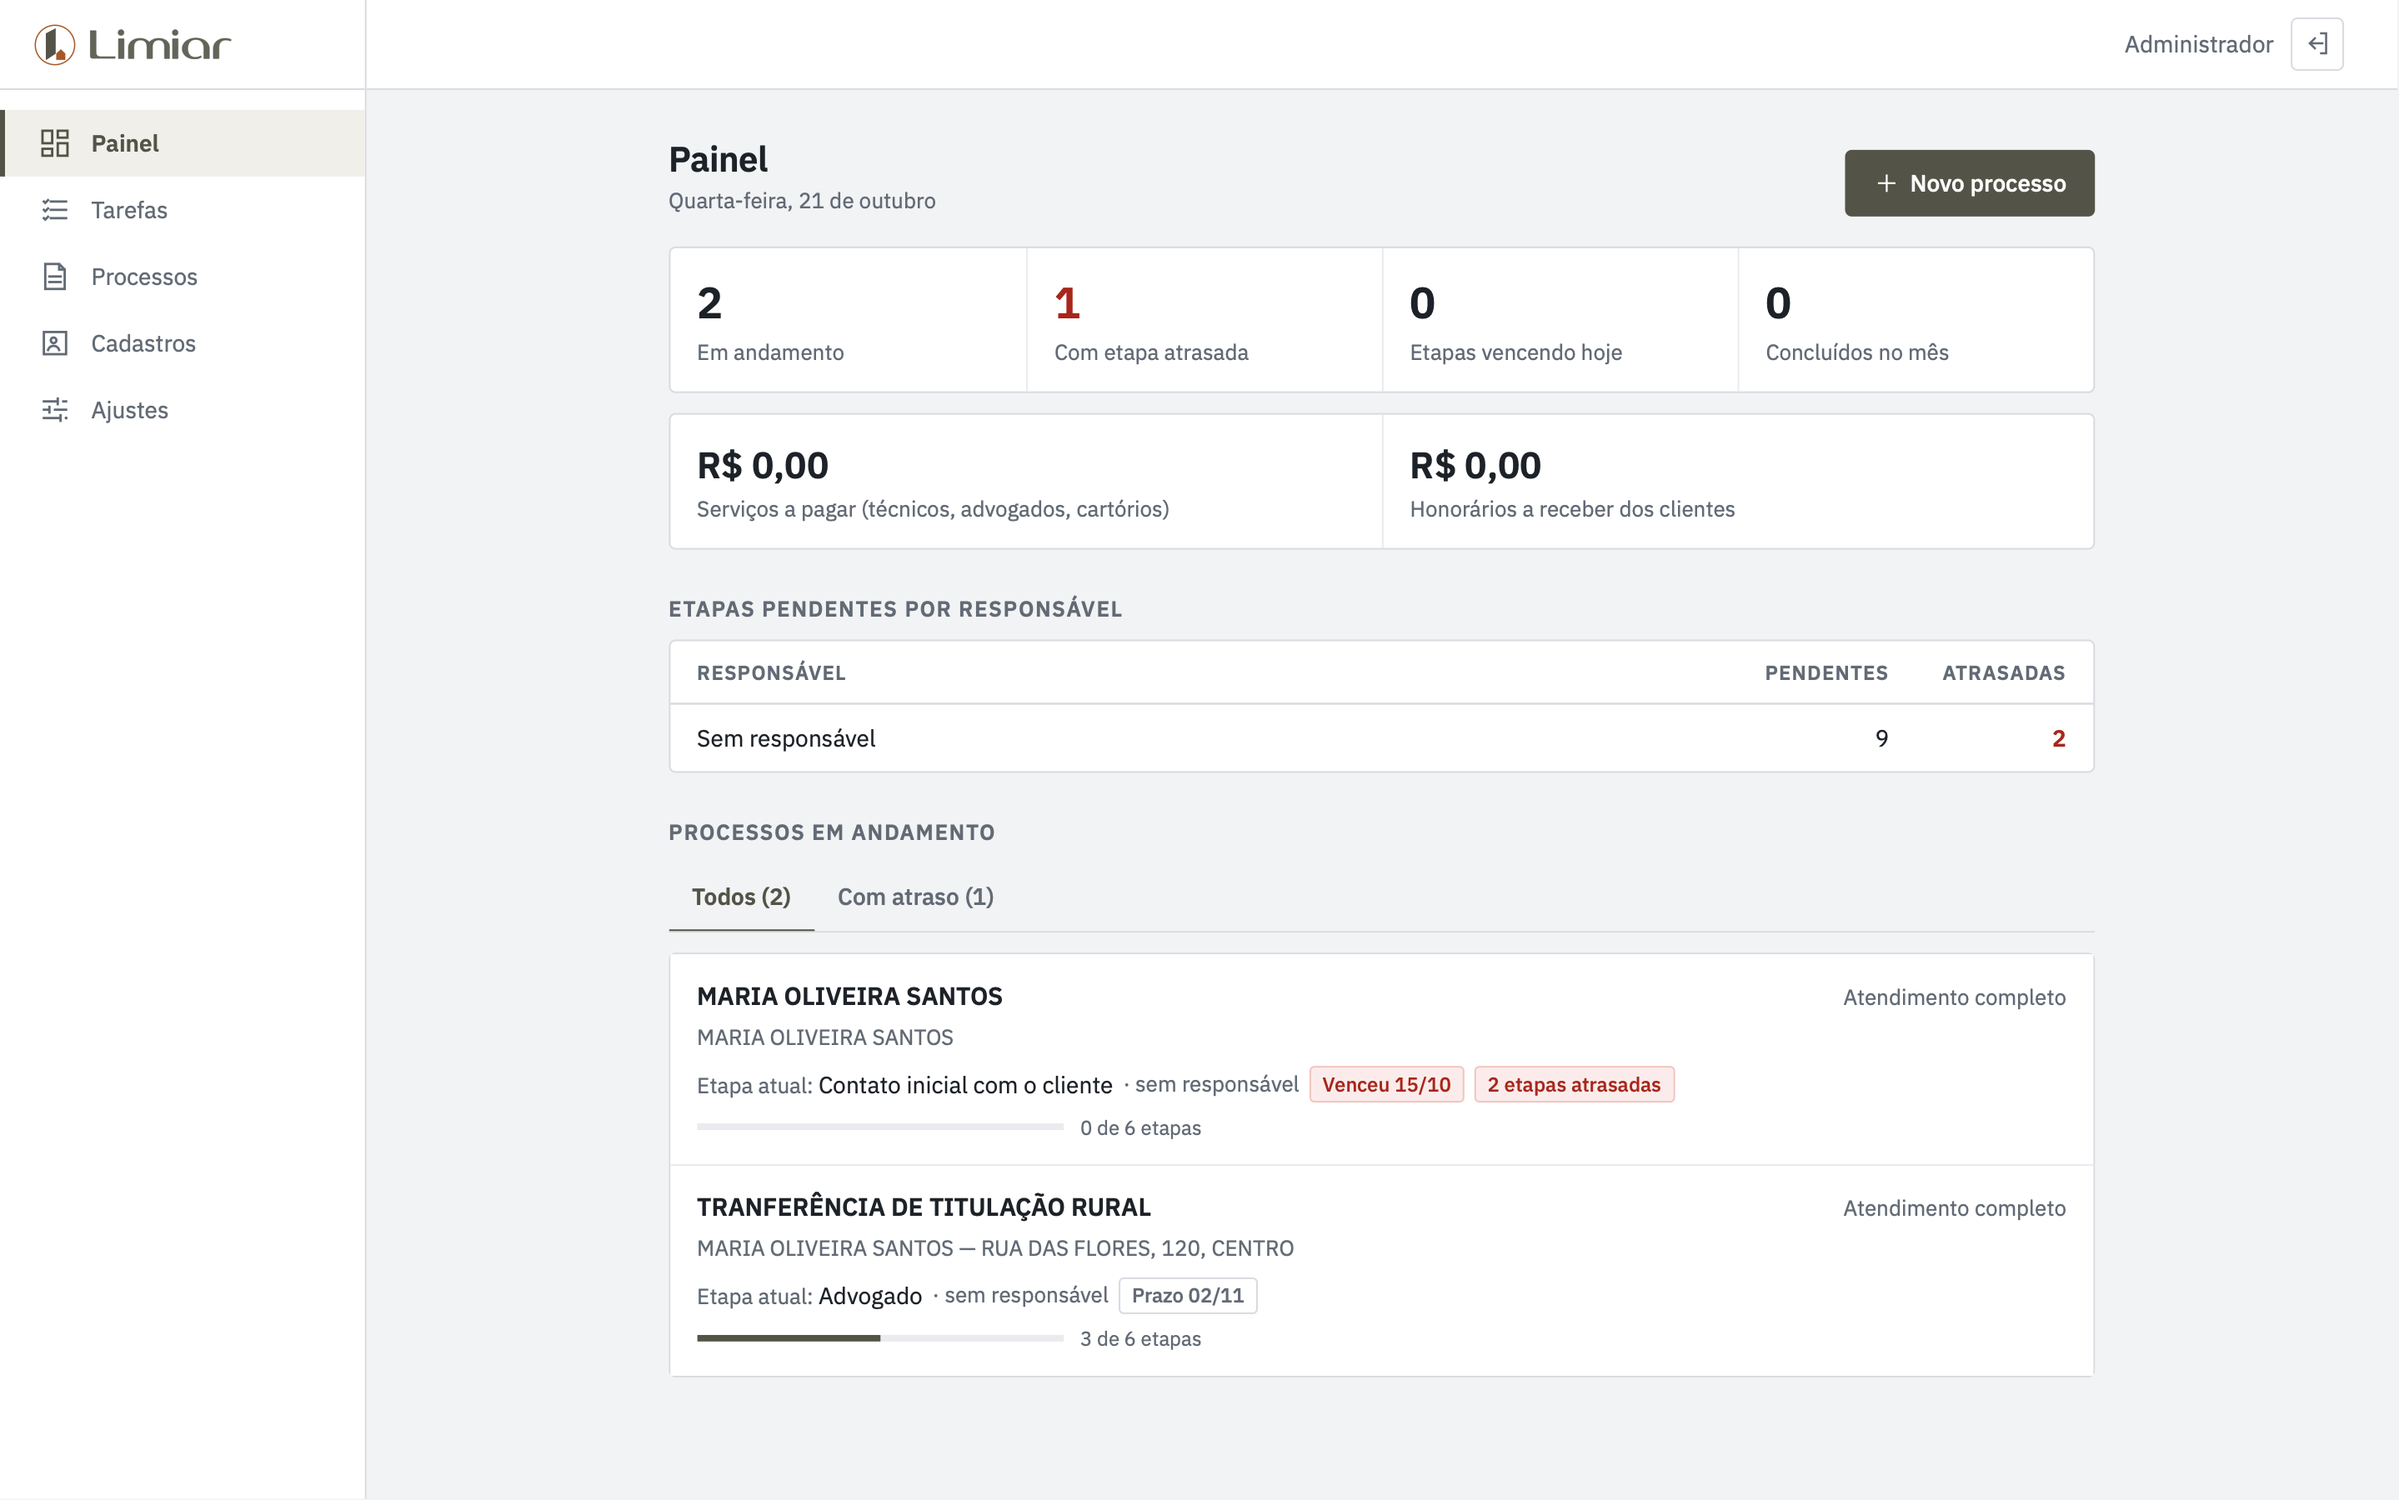
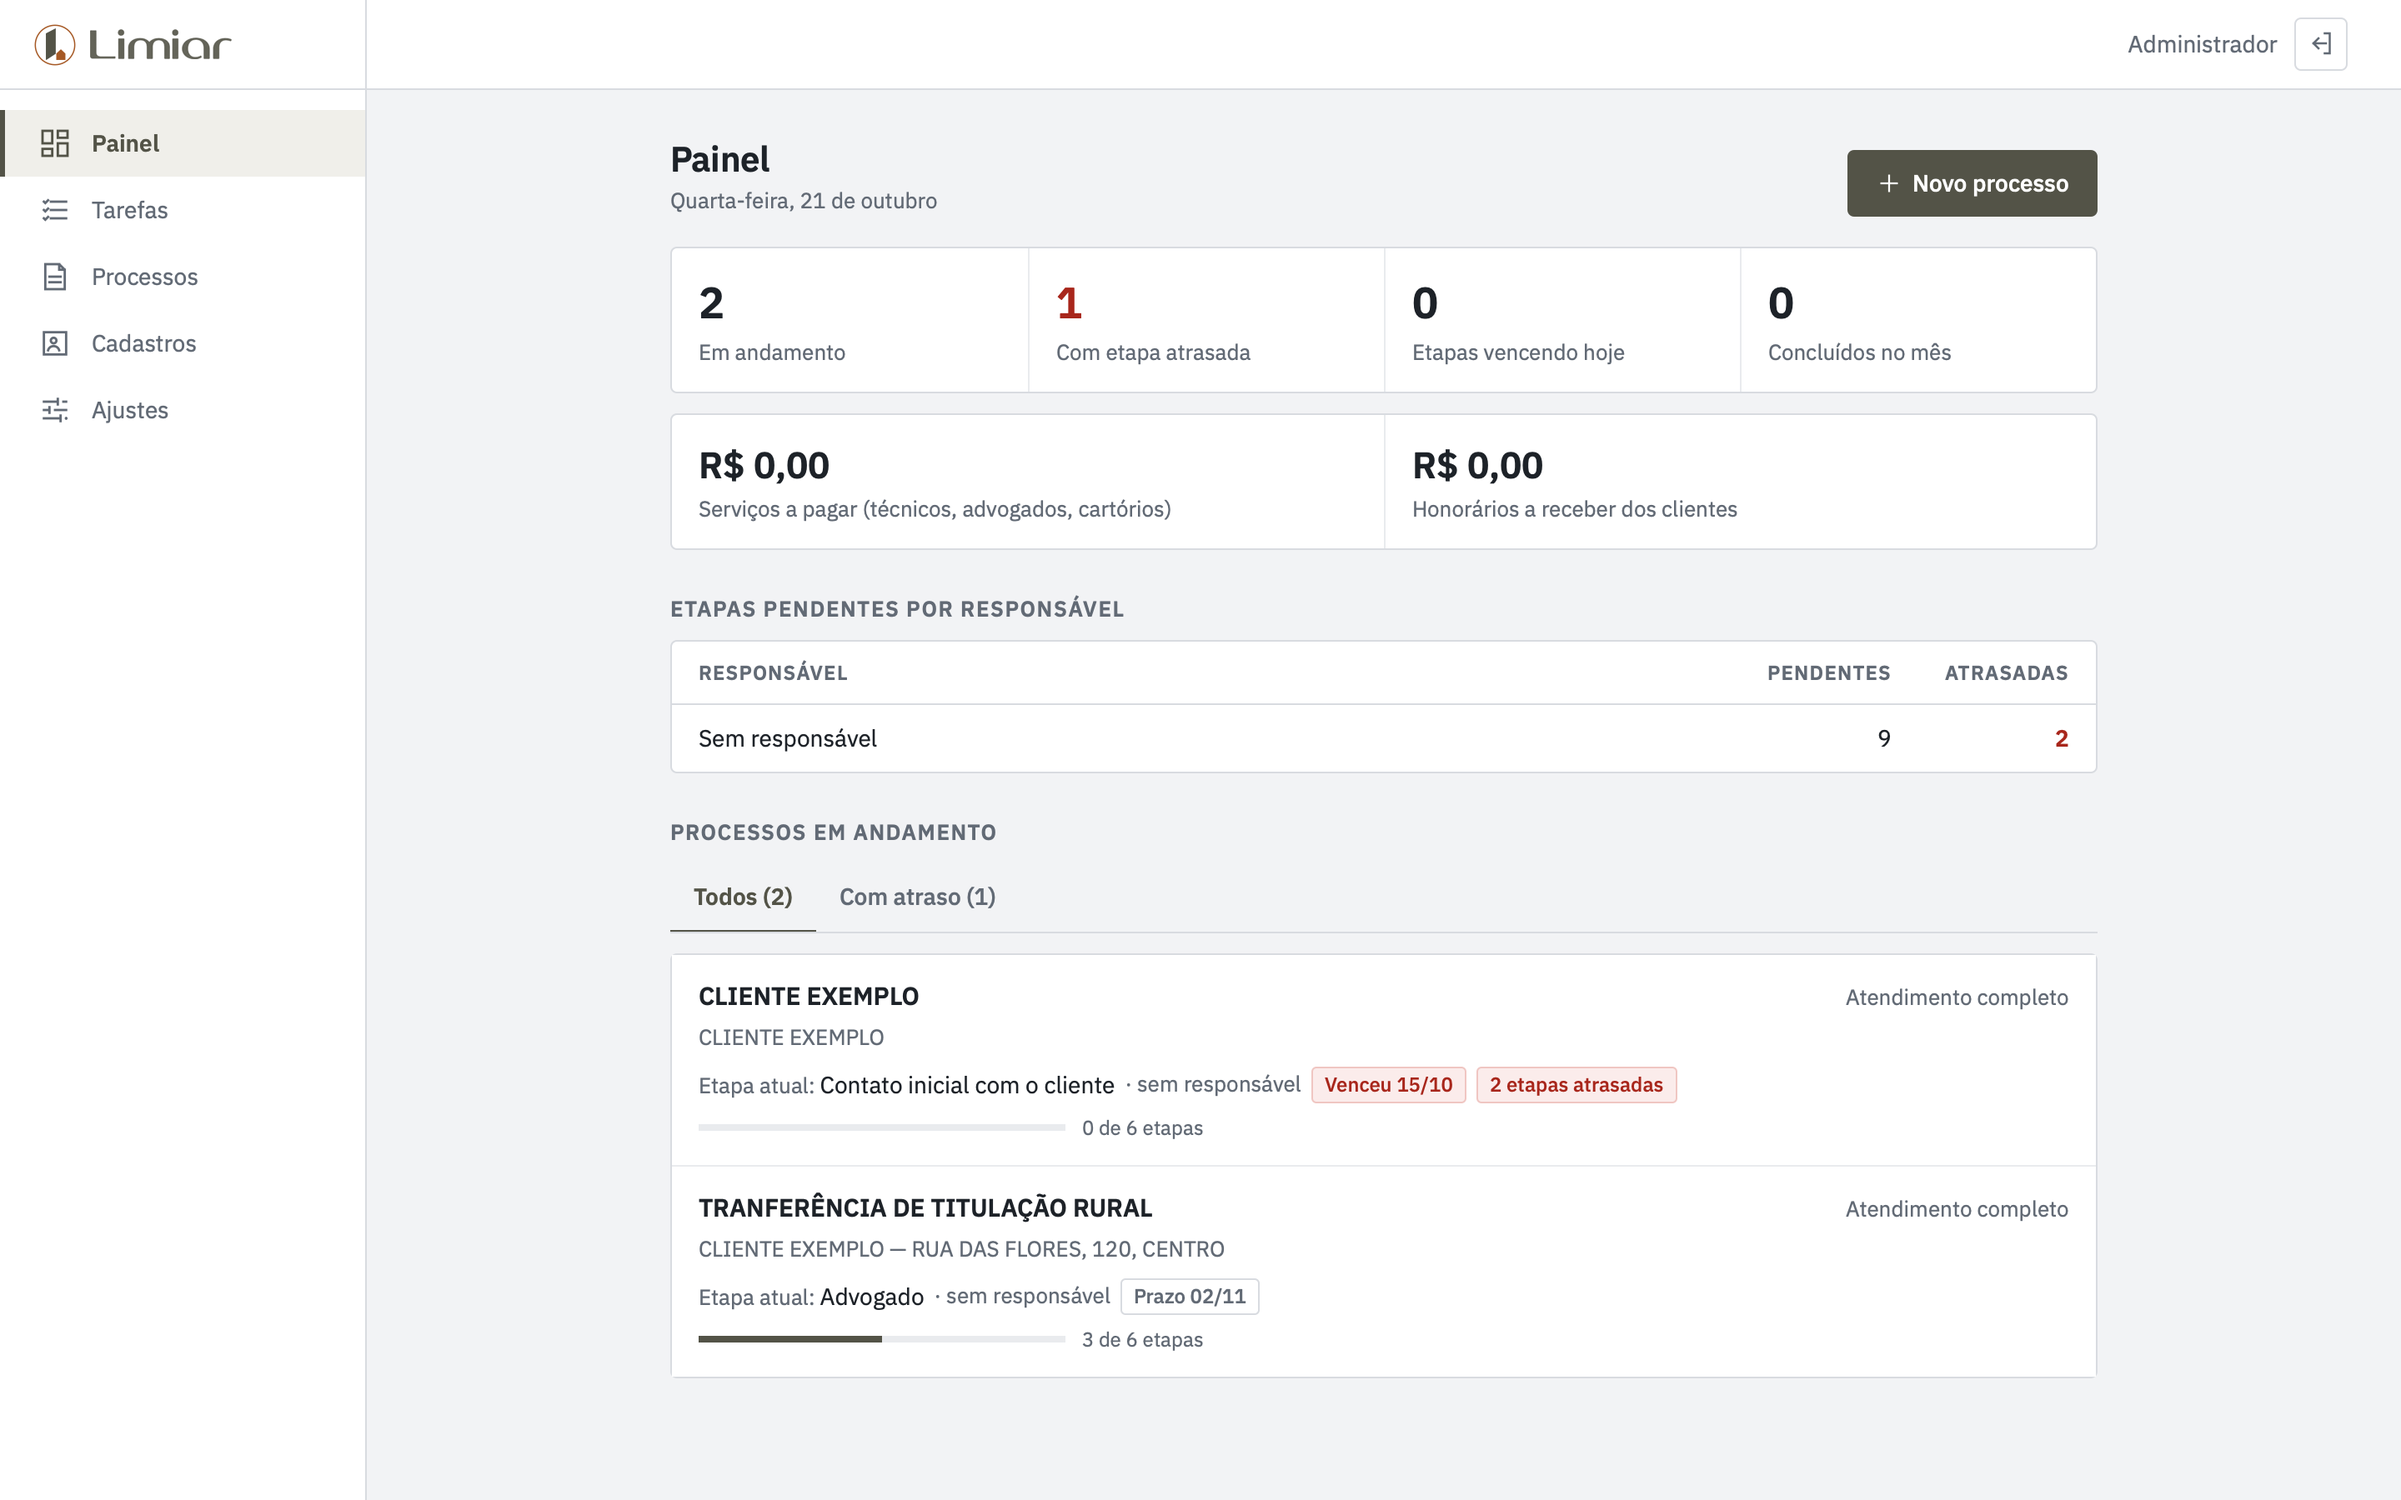
docs: use placeholder names in screenshots

diff --git a/README.md b/README.md
@@ -8,7 +8,7 @@ Process checklist for **Limiar Imóveis**, a real estate agency. Every property 
 |---|---|
 | ![Dashboard](screenshots/dashboard.png) | ![Deal](screenshots/deal.png) |
 
-*Client names and contacts in the screenshots were replaced with fictitious data.*
+*Client names and contacts in the screenshots were replaced with placeholders.*
 
 ## Features
 
